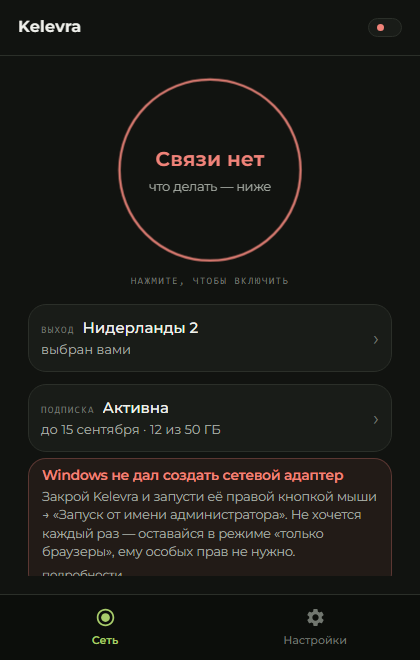
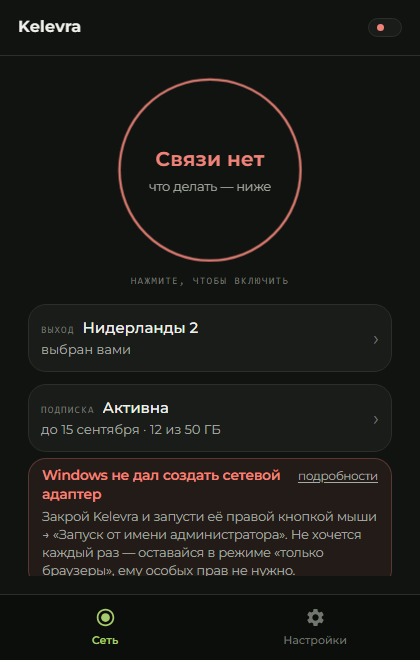
Кнопка «подробности» больше не зависит от длины совета; щуп полосы прокрутки заработал вне линукса
ЧТО БЫЛО. На разборе беды «Windows не дал создать сетевой адаптер» кнопка
«подробности» приземлялась ровно на нижнюю границу области прокрутки:
566.8..583.4 при границе 576 — человеку видно 9.2px из 16.7px, половина
кнопки, по которой ему предлагают нажать. Забор stend/oblik_obrezka_kadra.py
краснел на этом с самого своего появления.

ПРИЧИНА. Не в 15px переполнения экрана, а в порядке блока беды: «подробности»
были ПОСЛЕДНИМ его элементом, своей строкой под советом. Совет приходит от
ядра, его длина вёрсткой не выбирается — и кнопка вставала туда, куда её
вытолкнет чужой текст. Двигать под это пиксели бессмысленно: следующий совет
на строку длиннее вернул бы всё обратно.

ЧТО СДЕЛАНО. Заголовок и «подробности» — одной строкой (.beda-shapka), кнопка
справа. Начало блока держат элементы постоянной высоты (круг, подсказка, две
карточки), поэтому кнопка теперь стоит на месте, посчитанном от начала блока:
467.7..484.4, целиком в кадре, сколько бы строк ни занял совет. Подпись при
раскрытии — «скрыть», а не «скрыть подробности»: вдвое длиннее слово
переносило бы заголовок на вторую строку прямо под пальцем.

Высоты это почти не экономит, и записано это честно: блок теряет свою
последнюю строку с отбивкой (22.7px), но заголовок, ужатый кнопкой с 336 до
246px, переносится на вторую строку и забирает 19.6px обратно. Итог замером:
блок 133.7 → 130.6px, переполнение экрана 15 → 12px. Сцена 5_slomalos
остаётся в PROKRUTKA_ZAKONNA — длину совета выбирает ядро, и резать его ради
[…]

Changed region(s): [[0.0929, 0.697, 0.8976, 0.8788]]

diff --git a/internal/sluzhba/oblik/index.html b/internal/sluzhba/oblik/index.html
@@ -951,12 +951,38 @@
   .beda.vidno { display:block; }
   .beda.spokoyno { background:rgba(139,148,164,.08); border-color:var(--gran); color:var(--tihiy); }
   .beda.vnimanie { background:rgba(224,163,74,.09); border-color:rgba(224,163,74,.3); color:var(--zhdem); }
-  .beda-zagolovok { font-weight:600; font-size:13.5px; margin-bottom:3px; }
+  /* ШАПКА БЛОКА БЕДЫ: заголовок и «подробности» В ОДНОЙ СТРОКЕ.
+     До этой правки «подробности» были ПОСЛЕДНИМ элементом блока — своей
+     строкой под советом. Совет приходит от ядра, его длина вёрсткой не
+     выбирается, и кнопка вставала туда, куда её вытолкнет текст. На разборе
+     «Windows не дал создать сетевой адаптер» (совет в четыре строки) она
+     приземлилась ровно на нижнюю границу области прокрутки: 566.8..583.4 при
+     границе 576 — человеку видно 9.2px из 16.7px, половина кнопки, по которой
+     ему предлагают нажать (забор stend/oblik_obrezka_kadra.py).
+     Двигать пиксели тут бессмысленно: беда не в 15px переполнения, а в том,
+     что положение кнопки зависит от длины ЧУЖОГО текста. В шапке она стоит
+     на месте, посчитанном от начала блока, а начало блока держат элементы
+     постоянной высоты (круг, подсказка, две карточки) — сколько бы строк ни
+     занял совет, кнопка остаётся на первом кадре целиком.
+     ВЫСОТЫ ЭТО ПОЧТИ НЕ ЭКОНОМИТ, и врать тут не надо: блок теряет свою
+     последнюю строку с отбивкой (22.7px), но заголовок, ужатый кнопкой с
+     336px до 246px, переносится на вторую строку и забирает 19.6px обратно.
+     Итог замером на разборе «Windows не дал создать сетевой адаптер»: блок
+     133.7 → 130.6px, переполнение экрана 15 → 12px. Экран на этой сцене
+     по-прежнему прокручивается, и она по-прежнему в PROKRUTKA_ZAKONNA
+     (oblik_snimok.py) — длину совета выбирает ядро, а не вёрстка, и резать
+     его ради «влезло» значило бы прятать то, ради чего блок и заведён.
+     Чинится тут не переполнение, а зависимость положения кнопки от чужого
+     текста: сколько бы строк ни занял совет, кнопка остаётся там же.
+     min-width:0 у заголовка — чтобы длинный заголовок переносился внутри
+     своей доли строки, а не выдавливал кнопку за правый край. */
+  .beda-shapka { display:flex; align-items:baseline; gap:10px; margin-bottom:3px; }
+  .beda-zagolovok { font-weight:600; font-size:13.5px; min-width:0; }
   .beda-sovet { color:var(--tihiy); }
   .beda-podrobnosti {
-    display:block; margin-top:6px; padding:0; border:0; background:none;
+    margin-left:auto; flex:none; padding:0; border:0; background:none;
     color:var(--tihiy); font:inherit; font-size:11.5px; text-decoration:underline;
-    text-underline-offset:2px; cursor:pointer;
+    text-underline-offset:2px; cursor:pointer; white-space:nowrap;
   }
   .beda-syroe {
     margin-top:8px; font-family:ui-monospace, Consolas, monospace;
@@ -1653,9 +1679,18 @@ function pokazatBeduSvyazi(syroe, spokoyno) {
   knopka.textContent = "подробности";
   knopka.addEventListener("click", () => {
     syr.hidden = !syr.hidden;
-    knopka.textContent = syr.hidden ? "подробности" : "скрыть подробности";
+    // «скрыть», а не «скрыть подробности»: кнопка стоит в одной строке с
+    // заголовком (.beda-shapka), и слово вдвое длиннее переносило бы
+    // заголовок на вторую строку прямо под пальцем — экран дёргался бы от
+    // собственного нажатия.
+    knopka.textContent = syr.hidden ? "подробности" : "скрыть";
   });
-  uzel.append(zag, sovet, knopka, syr);
+  // Заголовок и «подробности» — одной строкой, кнопка справа. Почему не
+  // последней строкой блока, как было, — см. .beda-shapka в стилях.
+  const shapka = document.createElement("div");
+  shapka.className = "beda-shapka";
+  shapka.append(zag, knopka);
+  uzel.append(shapka, sovet, syr);
 }
 
 function pokazatBedu(uzel, tekst, spokoyno) {

diff --git a/stend/oblik_polosa_prokrutki.py b/stend/oblik_polosa_prokrutki.py
@@ -115,7 +115,19 @@ RECT_JS = """(sel) => {
 def zapustit_xvfb():
     """headless Chromium не рисует нативную полосу прокрутки вовсе — щупу
     нужен настоящий дисплей. Тот же приём, что у stend/trey.sh: используем
-    чужой Xvfb, если он уже поднят на :97, свой — если нет."""
+    чужой Xvfb, если он уже поднят на :97, свой — если нет.
+
+    ВНЕ ЛИНУКСА ВИРТУАЛЬНЫЙ ДИСПЛЕЙ НЕ НУЖЕН И ЕГО НЕТ. На Windows (а это
+    родная машина продукта) headed-браузер открывается на настоящем рабочем
+    столе и полосу рисует сам, а `xdpyinfo` и `Xvfb` — программы X11, которых
+    в системе нет вовсе. До этой правки щуп звал их безусловно и падал на
+    первой же строке трассой FileNotFoundError [WinError 2], не дойдя ни до
+    одного замера: на Windows он не был ни зелёным, ни красным — он не
+    запускался. Проверяем НАЛИЧИЕ программ, а не имя системы: тот же ответ
+    даёт и голый линукс-контейнер без X-утилит, где Xvfb всё равно не поднять,
+    и там честнее пойти на существующий DISPLAY, чем упасть трассой."""
+    if not shutil.which("xdpyinfo") or not shutil.which("Xvfb"):
+        return None
     display = os.environ.get("DISPLAY") or ":97"
     proc = None
     zapushchen = subprocess.run(
